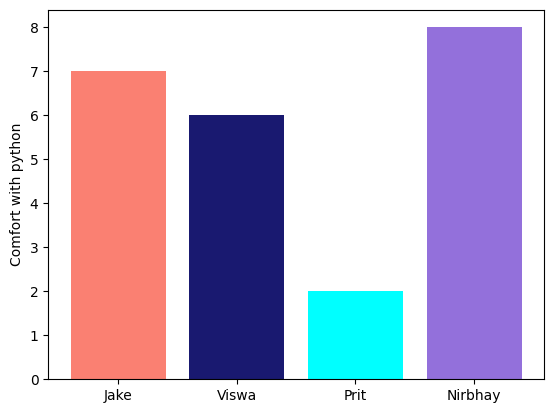
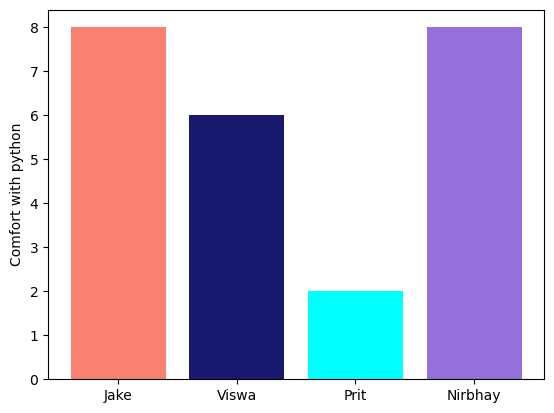
html also

Changed region(s): [[0.1227, 0.0581, 0.3069, 0.1743], [0.0307, 0.9007, 0.0921, 0.9298], [0.6444, 0.9298, 0.6751, 0.9588]]

diff --git a/Intro_to_jupyter.html b/Intro_to_jupyter.html
@@ -90,18 +90,33 @@ Introduction to Jupyter Notebooks
 <li><p>Everyone decide your comfort level on a scale of 1-10 in python, and your favorite colors from <a href="https://matplotlib.org/stable/gallery/color/named_colors.html">this</a> list.</p></li>
 </ol>
 <p>Edit the code below so that it has your names and corresponding comfort levels.</p>
-<div id="group_info-py" class="cell" data-execution_count="9">
+<ol type="1">
+<li></li>
+</ol>
+<ul>
+<li>Jake</li>
+<li>Viswa</li>
+<li>Nirbhay</li>
+<li>Prit</li>
+</ul>
+<div class="quarto-figure quarto-figure-center">
+<figure class="figure">
+<p><img src="Intro_to_jupyter_files/figure-html/91bcc72a-1-image.png" class="img-fluid figure-img"></p>
+<figcaption class="figure-caption">image.png</figcaption>
+</figure>
+</div>
+<div id="group_info-py" class="cell" data-execution_count="6">
 <div class="sourceCode cell-code" id="cb1"><pre class="sourceCode python code-with-copy"><code class="sourceCode python"><span id="cb1-1"><a href="#cb1-1" aria-hidden="true" tabindex="-1"></a>group_data <span class="op">=</span> {</span>
 <span id="cb1-2"><a href="#cb1-2" aria-hidden="true" tabindex="-1"></a>  <span class="st">'names'</span>: [<span class="st">"Jake"</span>, <span class="st">"Viswa"</span>, <span class="st">"Prit"</span>, <span class="st">"Nirbhay"</span>],</span>
 <span id="cb1-3"><a href="#cb1-3" aria-hidden="true" tabindex="-1"></a>  <span class="st">'colors'</span>: [<span class="st">"salmon"</span>, <span class="st">"midnightblue"</span>, <span class="st">"cyan"</span>, <span class="st">"mediumpurple"</span>],</span>
-<span id="cb1-4"><a href="#cb1-4" aria-hidden="true" tabindex="-1"></a>  <span class="st">'comfort'</span>: [<span class="dv">7</span>, <span class="dv">6</span>, <span class="dv">2</span>, <span class="dv">8</span>]</span>
+<span id="cb1-4"><a href="#cb1-4" aria-hidden="true" tabindex="-1"></a>  <span class="st">'comfort'</span>: [<span class="dv">8</span>, <span class="dv">6</span>, <span class="dv">2</span>, <span class="dv">8</span>]</span>
 <span id="cb1-5"><a href="#cb1-5" aria-hidden="true" tabindex="-1"></a>  }</span></code><button title="Copy to Clipboard" class="code-copy-button"><i class="bi"></i></button></pre></div>
 </div>
 <ol start="4" type="1">
 <li>Click “Run” on the code chunk below and see the plot that is produced.</li>
 </ol>
 <p>(Do not edit the code below!)</p>
-<div class="cell" data-outputid="4ef6bbc0-8c41-445e-9cc7-f9c36400d3cc" data-execution_count="10">
+<div class="cell" data-outputid="4ef6bbc0-8c41-445e-9cc7-f9c36400d3cc" data-execution_count="7">
 <div class="sourceCode cell-code" id="cb2"><pre class="sourceCode python code-with-copy"><code class="sourceCode python"><span id="cb2-1"><a href="#cb2-1" aria-hidden="true" tabindex="-1"></a>plt.bar(x <span class="op">=</span> group_data[<span class="st">'names'</span>], height <span class="op">=</span> group_data[<span class="st">'comfort'</span>], color <span class="op">=</span> group_data[<span class="st">'colors'</span>])</span>
 <span id="cb2-2"><a href="#cb2-2" aria-hidden="true" tabindex="-1"></a>plt.ylabel(<span class="st">"Comfort with python"</span>)</span>
 <span id="cb2-3"><a href="#cb2-3" aria-hidden="true" tabindex="-1"></a>plt.show()</span></code><button title="Copy to Clipboard" class="code-copy-button"><i class="bi"></i></button></pre></div>
